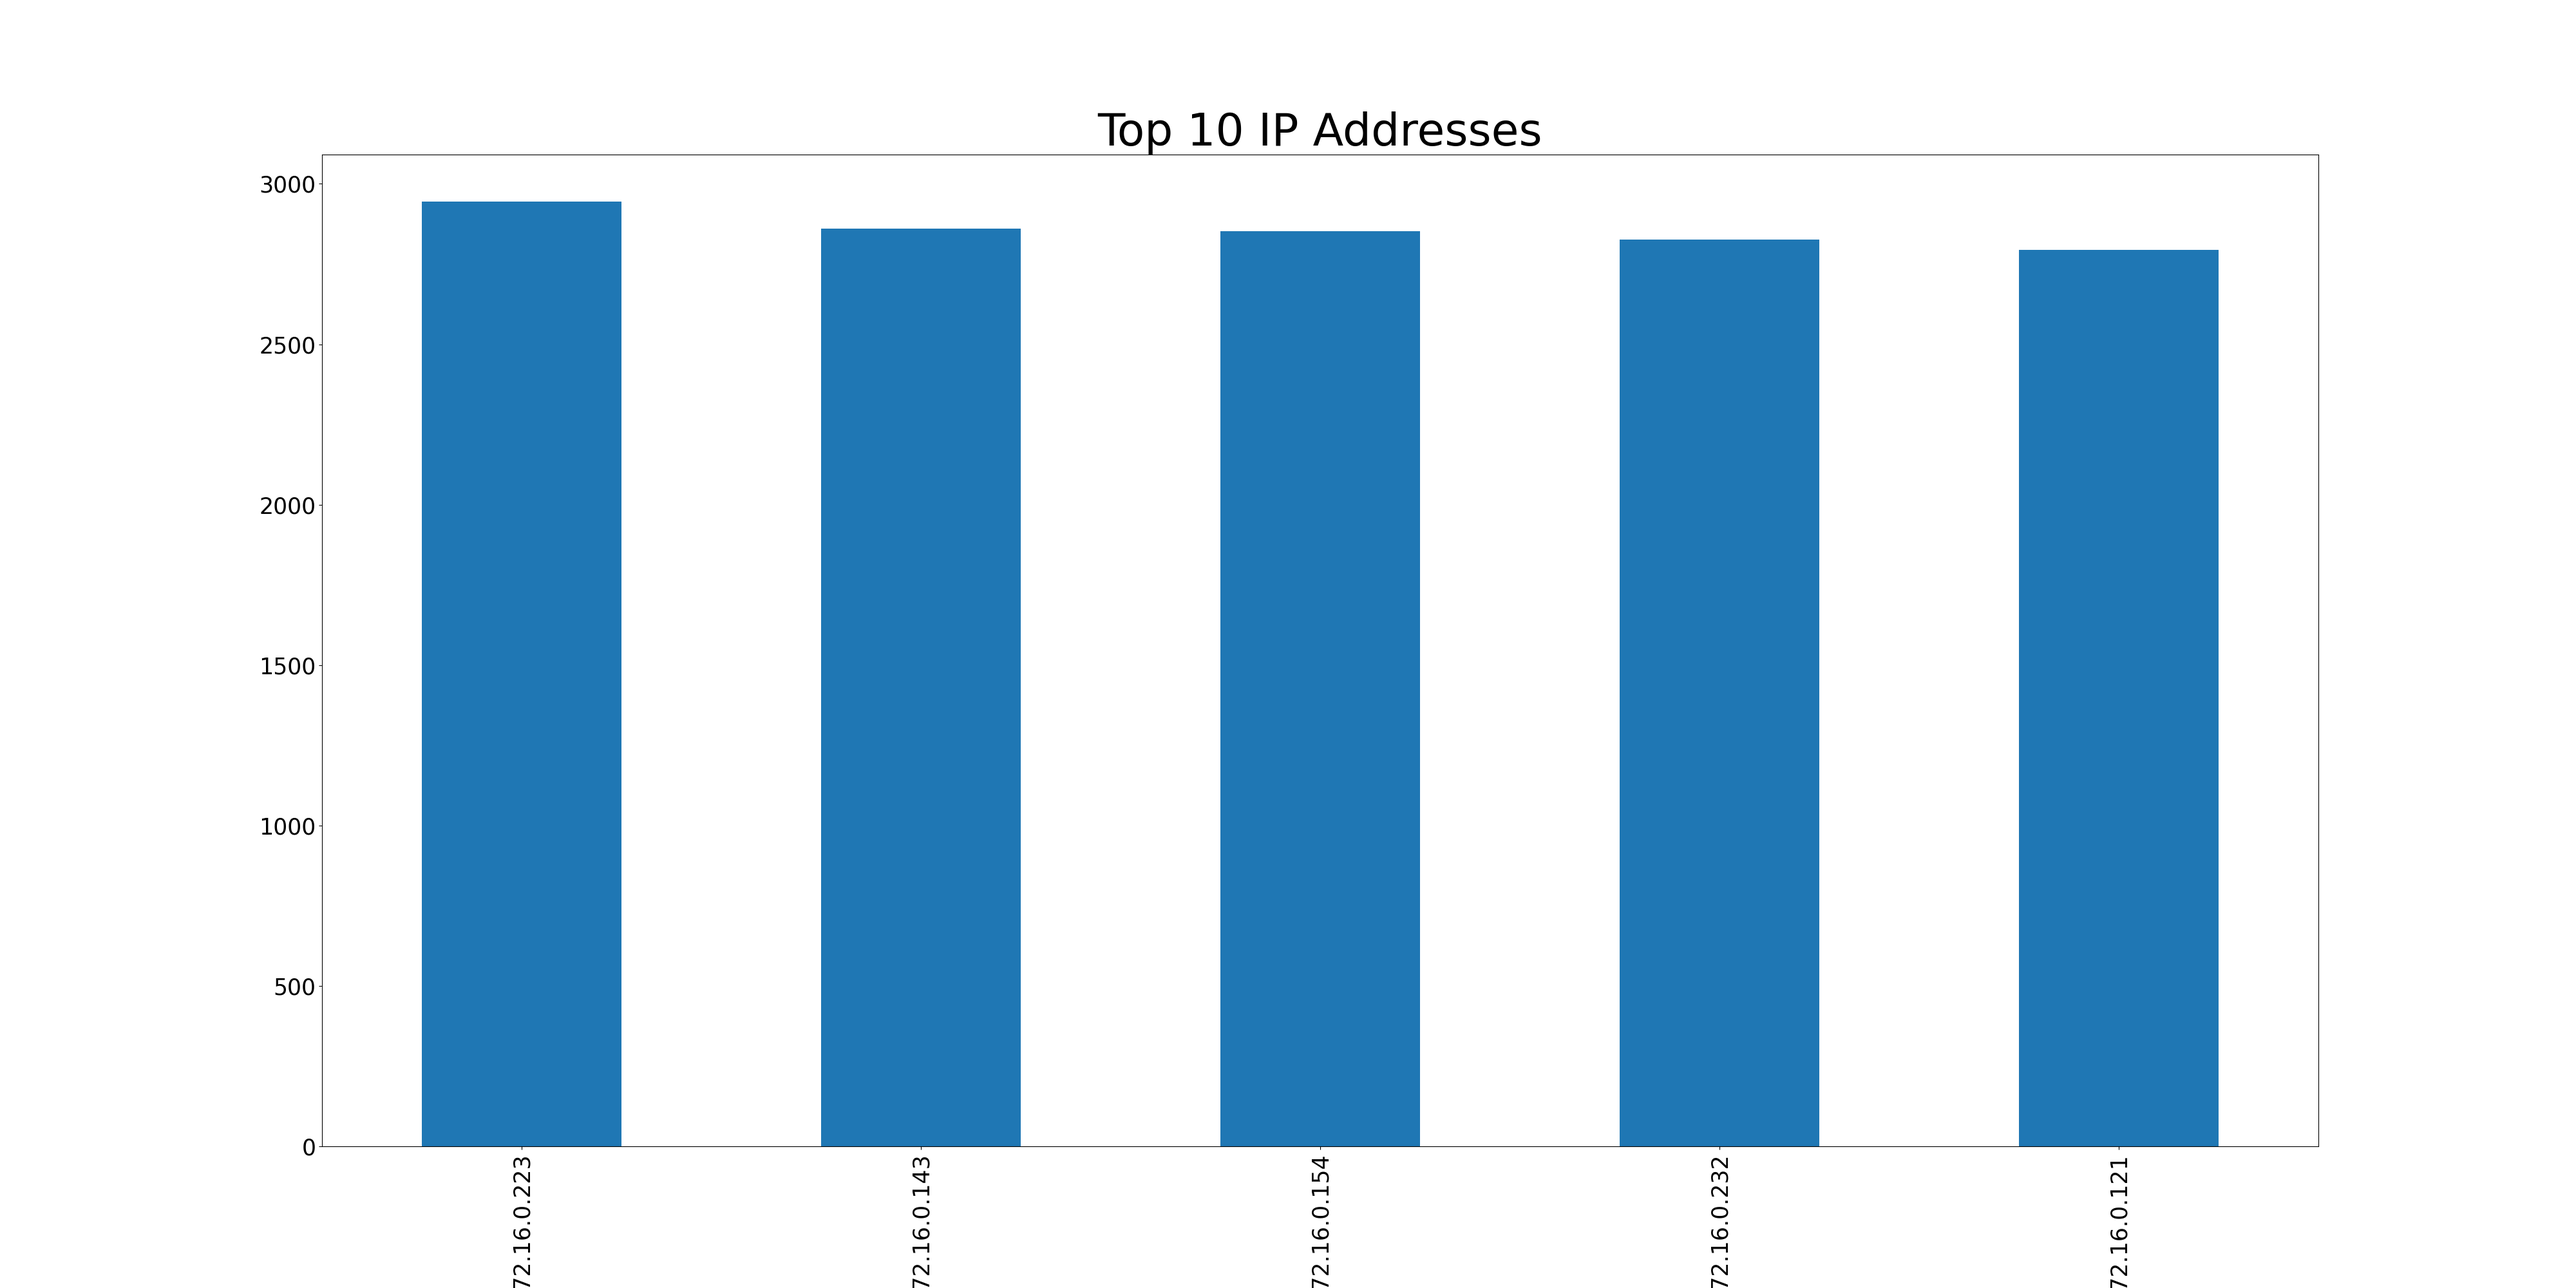
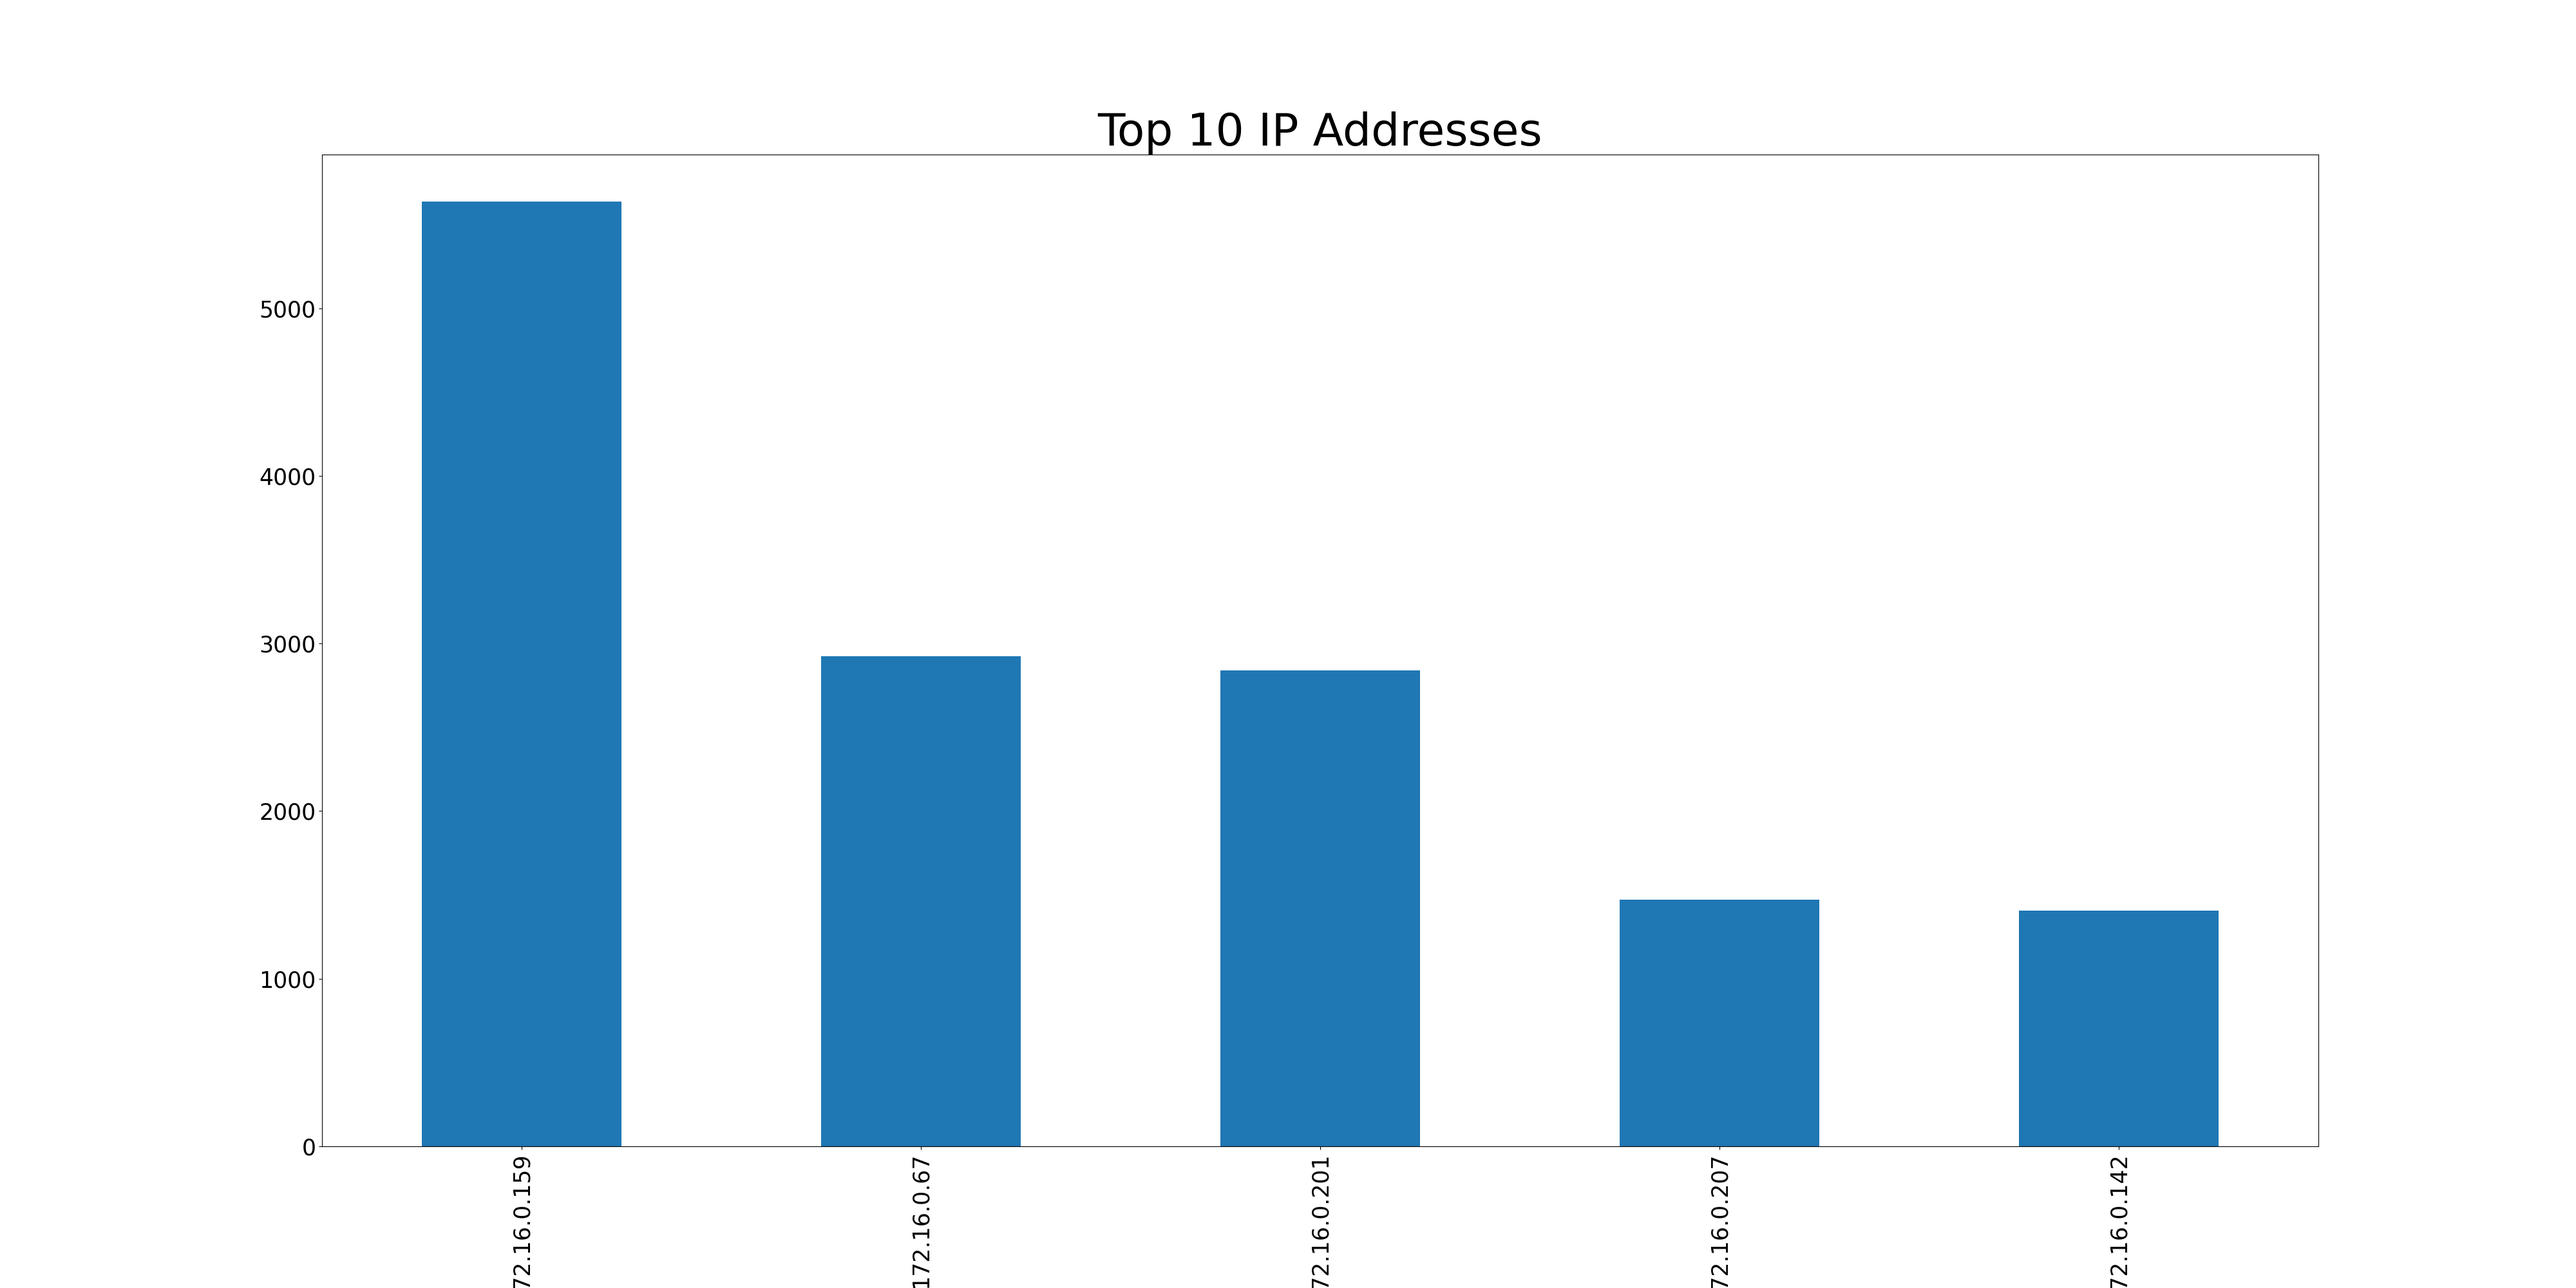
1

diff --git a/ml_back_end.py b/ml_back_end.py
@@ -261,7 +261,7 @@ print(f"Accuracy: {accuracy}")
 #===============================================
 
 
-def generate_ip_addresses(network = '172.16.0'):
+def generate_ip_addresses(network='172.16.0'):
     ip_addresses = []
     for _ in range(5):
         ip = network + "." + str(random.randint(0, 255))
@@ -279,41 +279,26 @@ def assign_ip_addresses(dataframe, ip_addresses_column_name, ip_addresses, weigh
 
     return dataframe
 
-#===============================================
-weights = [0.5, 0.2, 0.1, 0.1, 0.1]  # Adjust these values as needed
+# Example usage
+weights = [0.4, 0.2, 0.2, 0.1, 0.1]  # Adjust these values as needed
 
-attack_df_with_ip = assign_ip_addresses(attacks_df, 'ip_address', generate_ip_addresses(), weights)
-#===============================================
+# Assuming attacks_df is your DataFrame containing the data
+attack_df_with_ip = assign_ip_addresses(attacks_df, 'ip_addresses', generate_ip_addresses(), weights)
 
 def analyze_data(df):
     # Group by IP address, protocol type, flag, and service and count occurrences
     analysis_df = df.groupby(['ip_addresses', 'protocol_type', 'flag', 'service']).size().reset_index(name='count')
     return analysis_df
 
-#===============================================
-
 analyzed_df = analyze_data(attack_df_with_ip)
 
 print(analyzed_df)
 
-#===============================================
-
+# Assuming get_attacks_df() is your function to retrieve the DataFrame
 def get_attacks_df():
     df = analyzed_df
     return df
-
 #===============================================
-        
-# Set larger font sizes for all plots
-plt.rc('font', size=40)          # controls default text sizes
-plt.rc('axes', titlesize=40)     # fontsize of the axes title
-plt.rc('axes', labelsize=40)     # fontsize of the x and y labels
-plt.rc('xtick', labelsize=25)    # fontsize of the tick labels
-plt.rc('ytick', labelsize=25)    # fontsize of the tick labels
-plt.rc('legend', fontsize=40)    # legend fontsize
-plt.rc('figure', titlesize=40)   # fontsize of the figure title
-
-plt.figure(figsize=(40, 20))
 
 # Define colors for each plot
 colors_protocol_type = ['blue', 'green', 'red']
